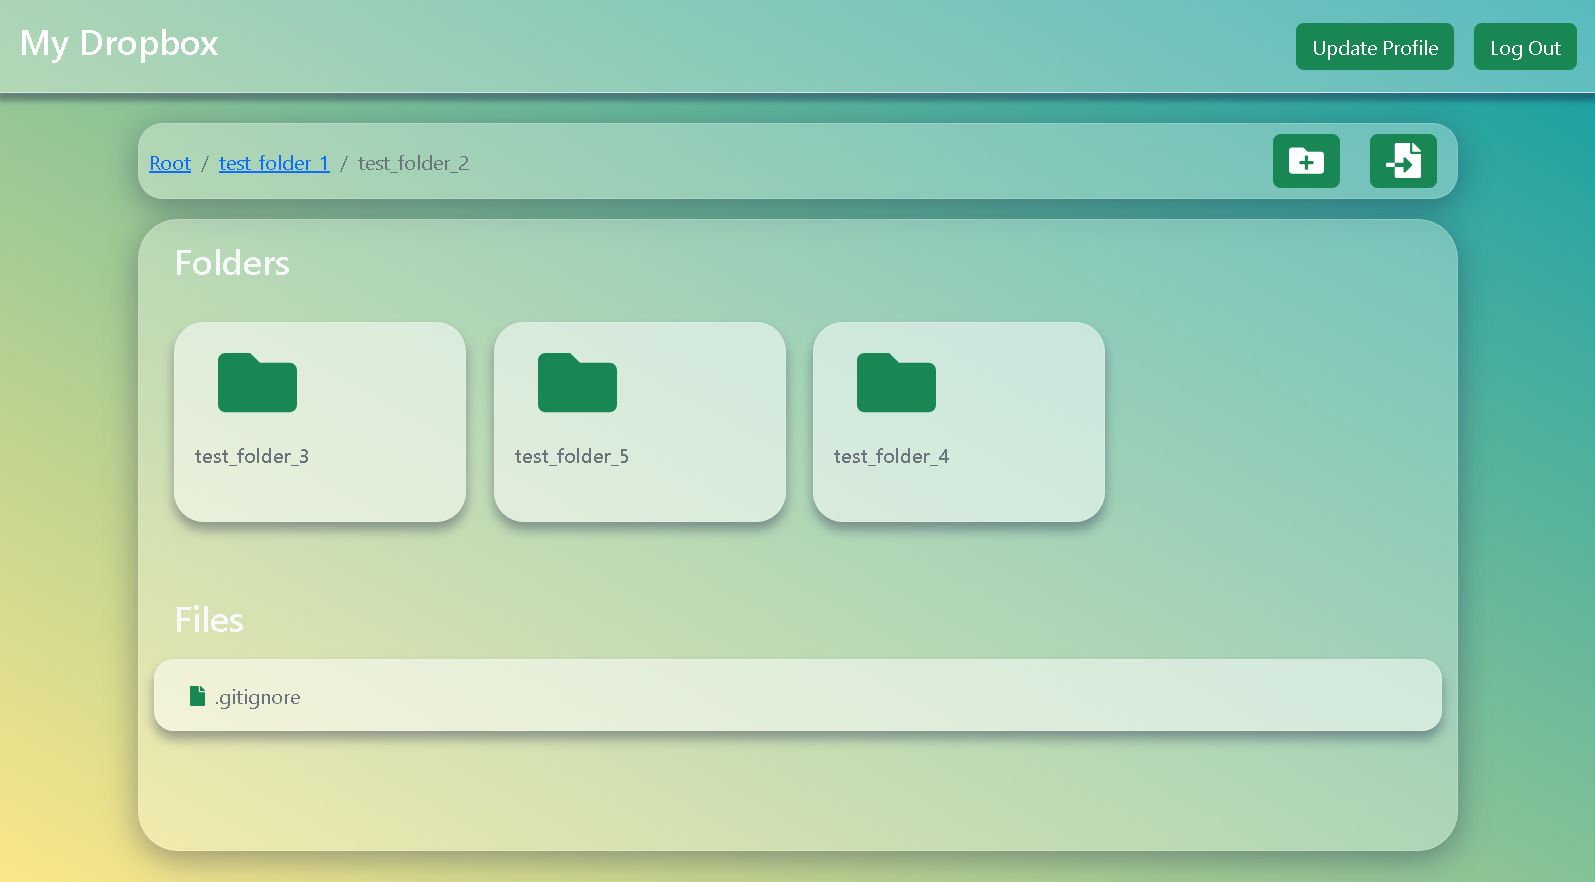
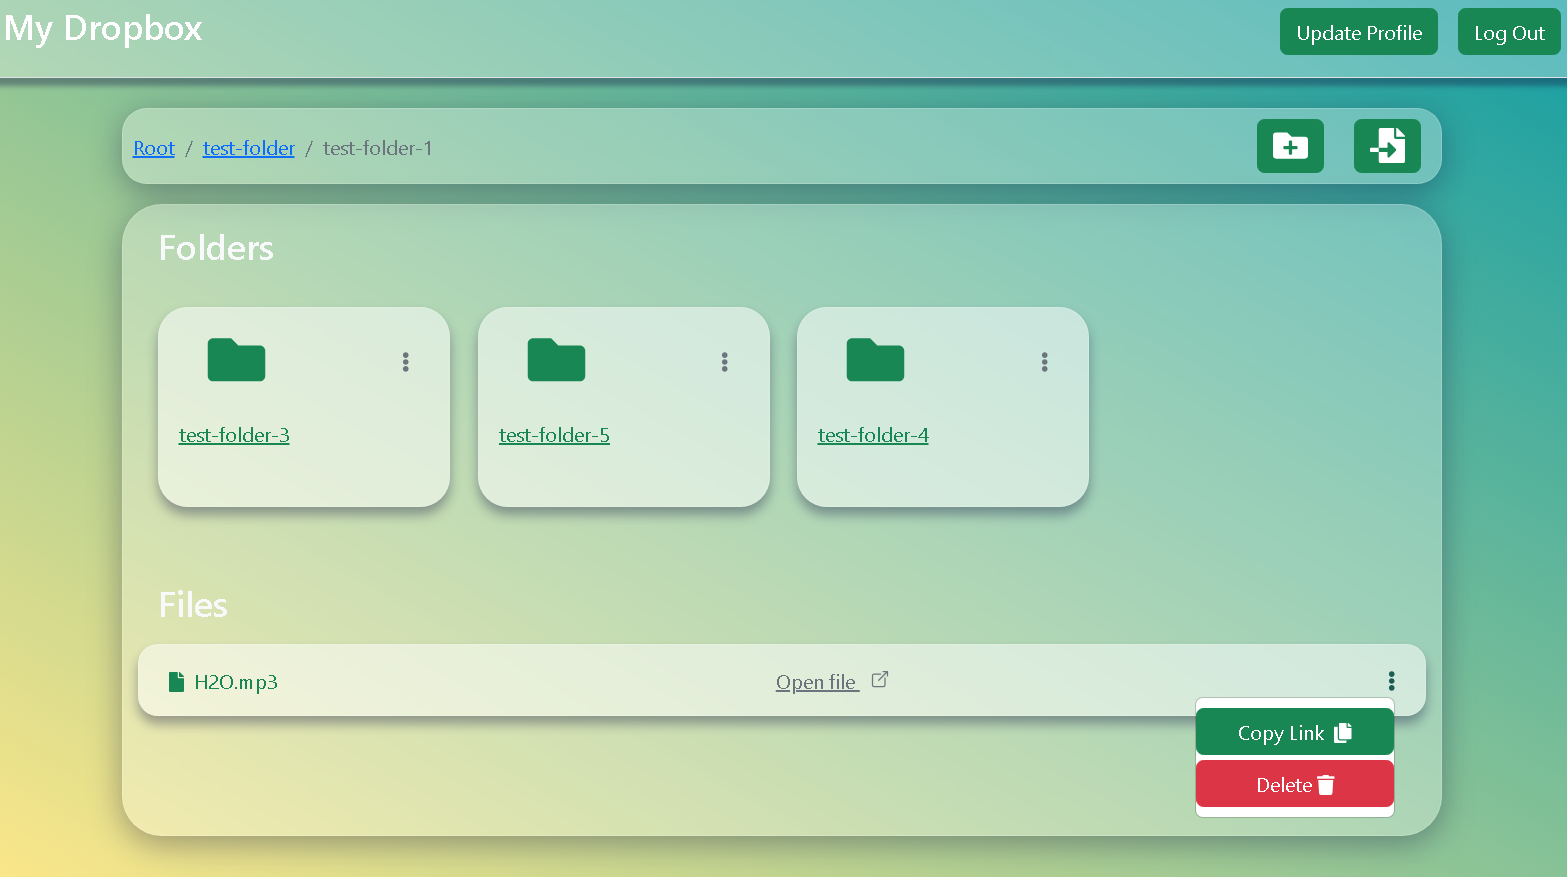
Update Project

Changed region(s): [[0.0, 0.0, 1.0, 0.9852]]

diff --git a/src/components/FolderAndFile/File.js b/src/components/FolderAndFile/File.js
@@ -1,23 +1,54 @@
-const React = require("react");
-const { faFile } = require("@fortawesome/free-solid-svg-icons");
-const { FontAwesomeIcon } = require("@fortawesome/react-fontawesome");
+import React from "react";
+import { faCopy, faEllipsisV, faFile, faTrash } from "@fortawesome/free-solid-svg-icons";
+import { FontAwesomeIcon } from "@fortawesome/react-fontawesome";
+import { database } from "../../firebase";
 
 function File(props) {
   const { file } = props;
+
+  function copy() {
+    const el = document.createElement("input");
+    el.value = file.url;
+    document.body.appendChild(el);
+    el.select();
+    document.execCommand("copy");
+    document.body.removeChild(el);
+  }
+
+  const deleteDocument = async (id) => {
+    try {
+       await database.files.doc(id).delete();
+       alert("File successfully deleted!");
+    } catch (error) {
+       alert("Error removing file: ", error);
+    }
+   };
   return (
-    React.createElement("div", null,
-      React.createElement("a", {
-        href: file.url,
-        className: "ms-1 text-decoration-none text-muted"
-      },
-        React.createElement(FontAwesomeIcon, {
-          icon: faFile,
-          className: "me-2 text-success"
-        }),
-        file.name
-      )
-    )
+    <>
+      <div className="d-flex justify-content-between align-items-center">
+        <div className="file-icon text-success d-flex justify-content-around align-items-center">
+          <FontAwesomeIcon icon={faFile} className="mt-1" />
+          <div className="file-name ms-2">
+            <a href={file.url} target="_blank" className="text-decoration-none text-success">{file.name}</a>
+          </div>
+        </div>
+        <div className="file-open text-center">
+          <a href={file.url} target="_blank" className="text-muted">Open file <span className="ms-2"><ion-icon name="open-outline"></ion-icon></span></a>
+        </div>
+        <div className="file-delete">
+          <div class="dropdown">
+            <span class="" type="button" data-bs-toggle="dropdown" aria-expanded="false">
+              <FontAwesomeIcon icon={faEllipsisV} />
+            </span>
+            <ul class="dropdown-menu">
+              <button onClick={copy} className="btn btn-success w-100 mb-1">Copy Link <FontAwesomeIcon icon={faCopy} className="ms-1" /></button>
+              <button onClick={() => deleteDocument(file.id)} className="btn btn-danger w-100">Delete <FontAwesomeIcon icon={faTrash} /></button>
+            </ul>
+          </div>
+        </div>
+      </div>
+    </>
   );
 }
 
-module.exports = File;
+export default File;

diff --git a/src/components/FolderAndFile/Folder.js b/src/components/FolderAndFile/Folder.js
@@ -1,18 +1,39 @@
 import React from "react";
 import { Card } from "react-bootstrap";
 import { Link } from "react-router-dom";
-import { faFolder } from "@fortawesome/free-solid-svg-icons";
+import { database } from "../../firebase";
+import { faEllipsisV, faFolder, faTrash } from "@fortawesome/free-solid-svg-icons";
 import { FontAwesomeIcon } from "@fortawesome/react-fontawesome";
 
-const Folder = ({ folder }) => (
-  <Card
-    as={Link}
-    to={{ pathname: `/folder/${folder.id}`, state: { folder } }}
-    variant="success"
-    className="card-body text-muted text-decoration-none">
-    <FontAwesomeIcon icon={faFolder} className="text-success w-50 h-50" />
-    <h6 className="mt-3">{folder.name}</h6>
-  </Card>
-);
+const Folder = ({ folder }) => {
+  const deleteDocument = async (id) => {
+    try {
+       await database.folders.doc(id).delete();
+       alert("Folder successfully deleted!");
+    } catch (error) {
+       alert("Error removing folder: ", error);
+    }
+   };
+  return (
+    <>
+      <Card
+        variant="success"
+        className="card-body text-muted text-decoration-none">
+          <div className="d-flex justify-content-between align-items-center me-3" style={{marginTop: "-25px", }}>
+            <FontAwesomeIcon icon={faFolder} className="text-success w-50 h-50" />
+            <div class="dropdown dropstart">
+              <span class="" type="button" data-bs-toggle="dropdown" aria-expanded="false">
+                <FontAwesomeIcon icon={faEllipsisV} />
+              </span>
+              <ul class="dropdown-menu dropdown-menu-end dropdown-menu-lg-start">
+                <button onClick={() => deleteDocument(folder.id)} className="btn btn-danger w-100">Delete <FontAwesomeIcon icon={faTrash} /></button>
+              </ul>
+            </div>
+          </div>
+        <Link to={{ pathname: `/folder/${folder.id}`, state: { folder } }} className="text-success">{folder.name}</Link>
+      </Card>
+    </>
+  );
+};
 
 export default Folder;

diff --git a/public/index.html b/public/index.html
@@ -8,6 +8,9 @@
   <!-- Bootstrap links -->
   <link href="https://cdn.jsdelivr.net/npm/bootstrap@5.2.3/dist/css/bootstrap.min.css" rel="stylesheet" integrity="sha384-rbsA2VBKQhggwzxH7pPCaAqO46MgnOM80zW1RWuH61DGLwZJEdK2Kadq2F9CUG65" crossorigin="anonymous">
   <script defer src="https://cdn.jsdelivr.net/npm/bootstrap@5.2.3/dist/js/bootstrap.bundle.min.js" integrity="sha384-kenU1KFdBIe4zVF0s0G1M5b4hcpxyD9F7jL+jjXkk+Q2h455rYXK/7HAuoJl+0I4" crossorigin="anonymous"></script>
+  <!-- Ionic icons links -->
+  <script defer type="module" src="https://unpkg.com/ionicons@7.1.0/dist/ionicons/ionicons.esm.js"></script>
+  <script defer nomodule src="https://unpkg.com/ionicons@7.1.0/dist/ionicons/ionicons.js"></script>
 </head>
 <body>
 

diff --git a/README.md b/README.md
@@ -30,6 +30,10 @@ Features
 - upload file
 - update profile
 
+Update Project Features
+
+- delete folder and file
+
 ### The Core Team
 
 - <a href="https://github.com/Oqilbek2121">To'lqinov Oqilbek</a><br>
